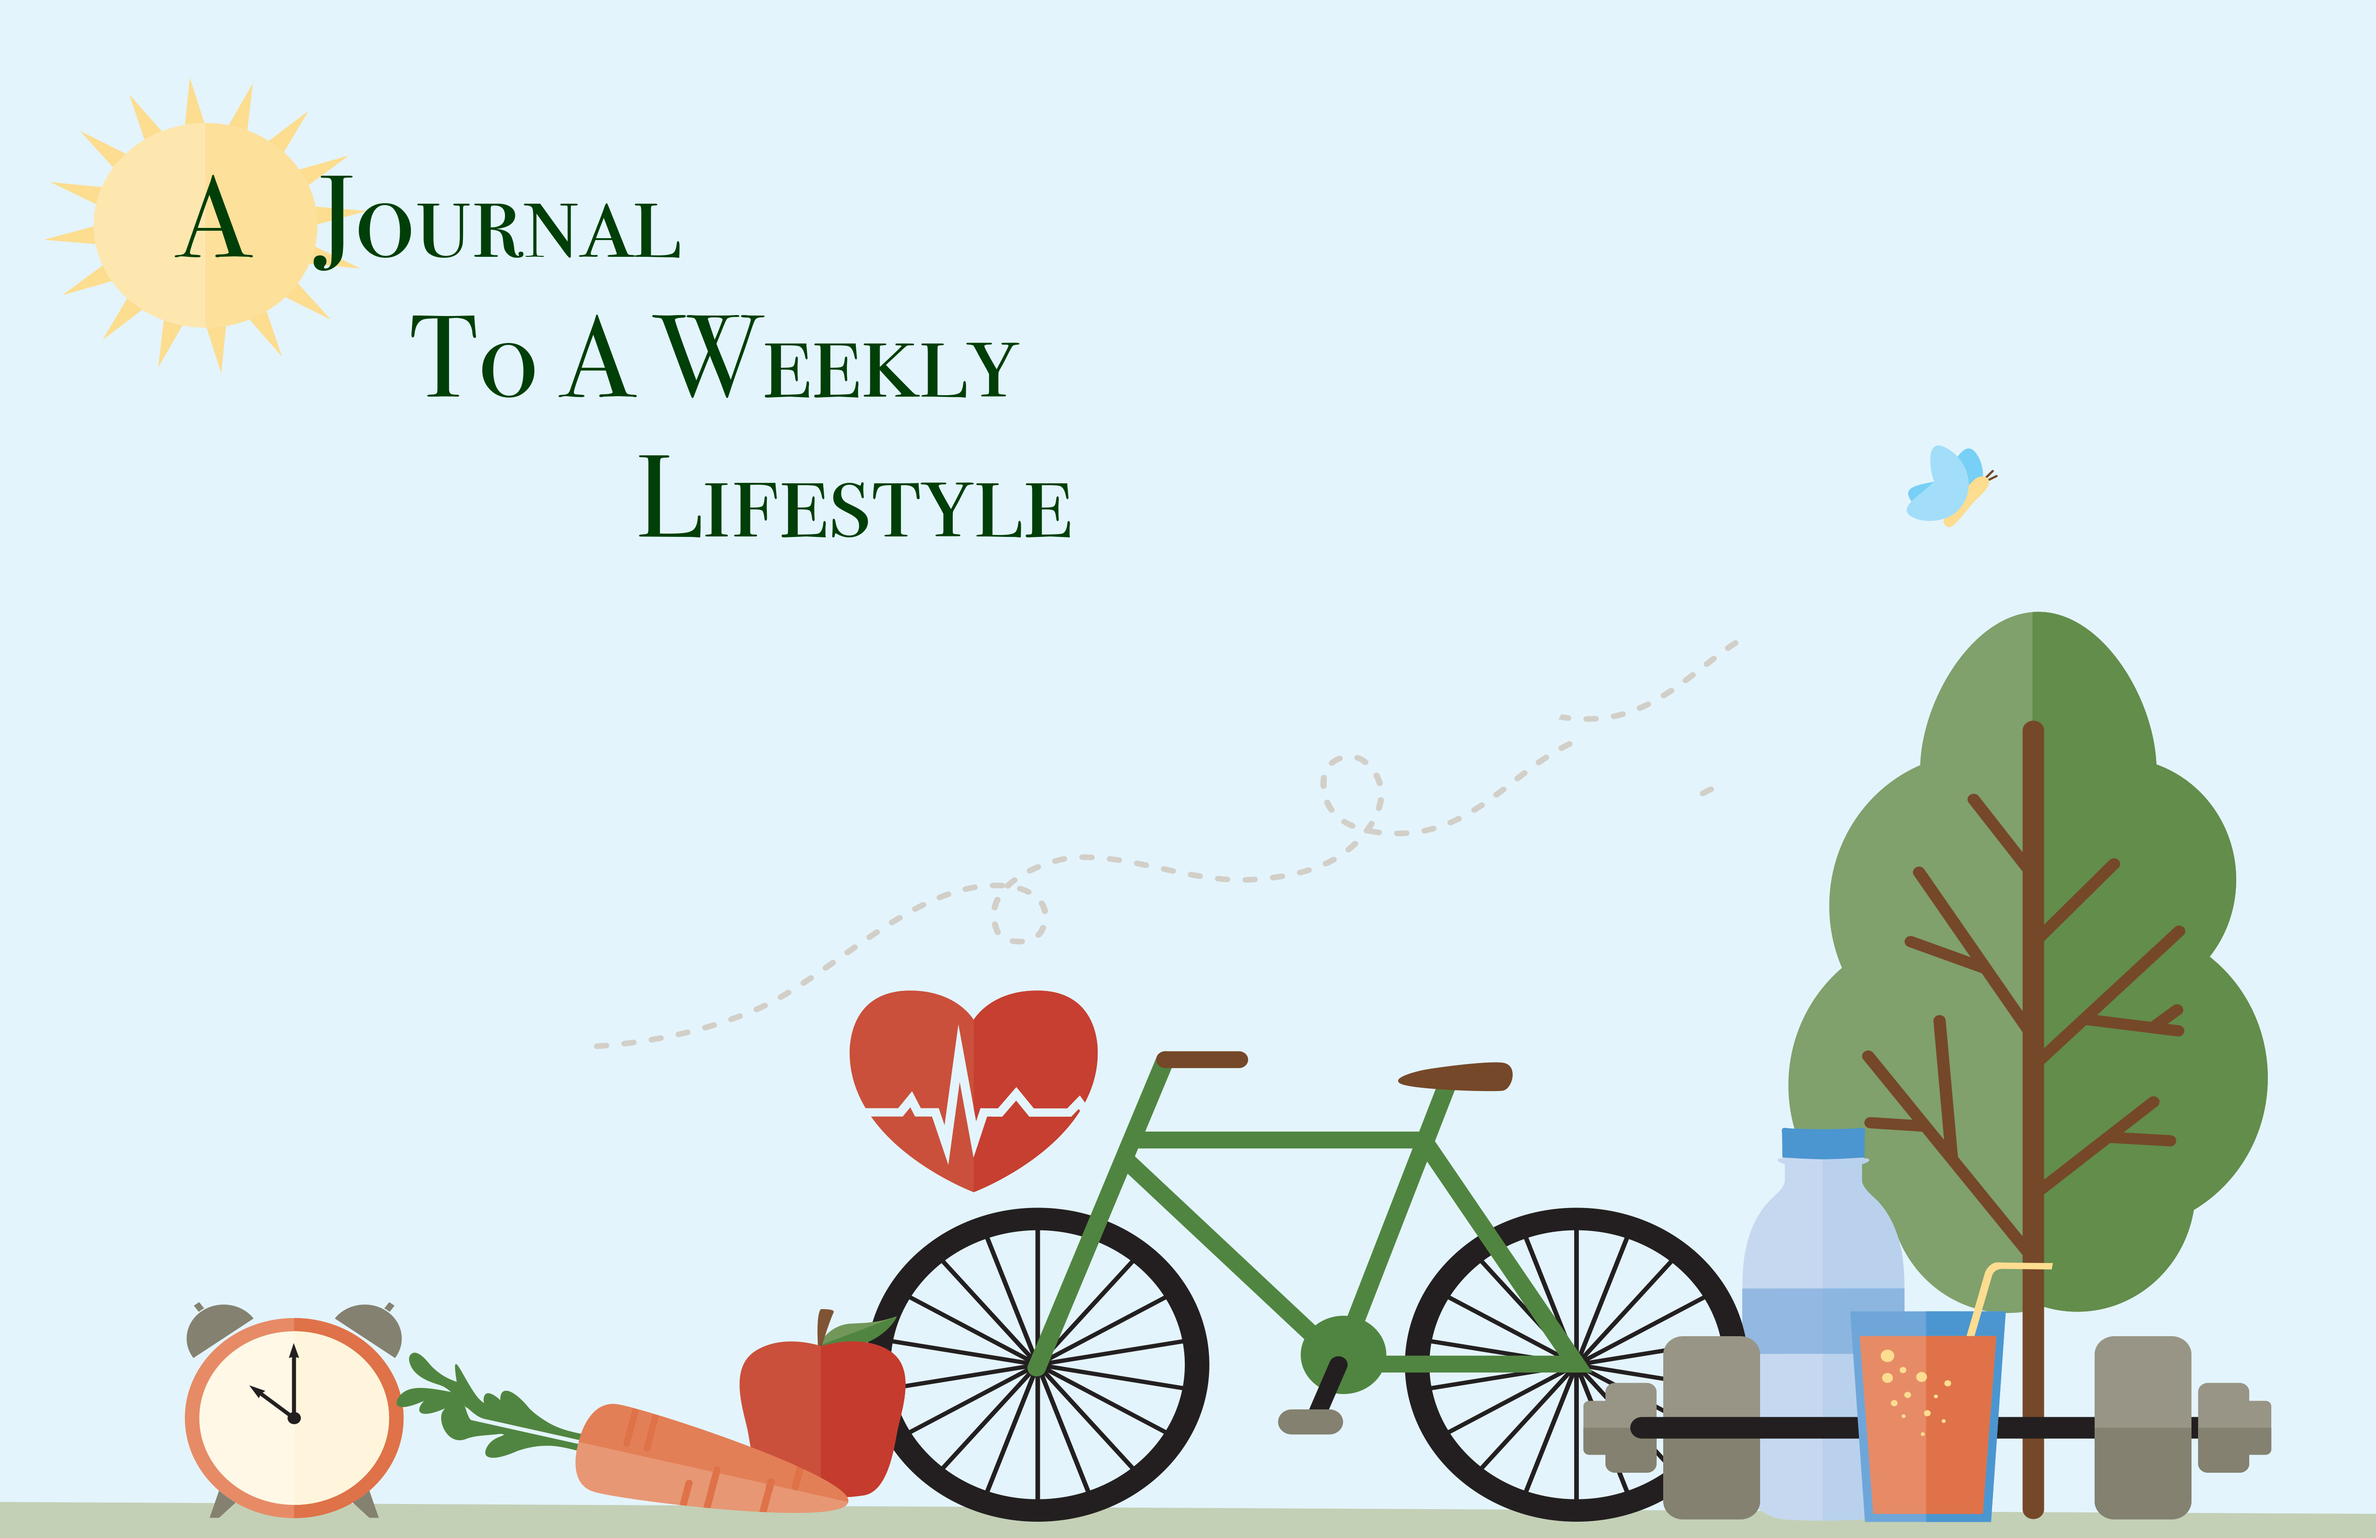
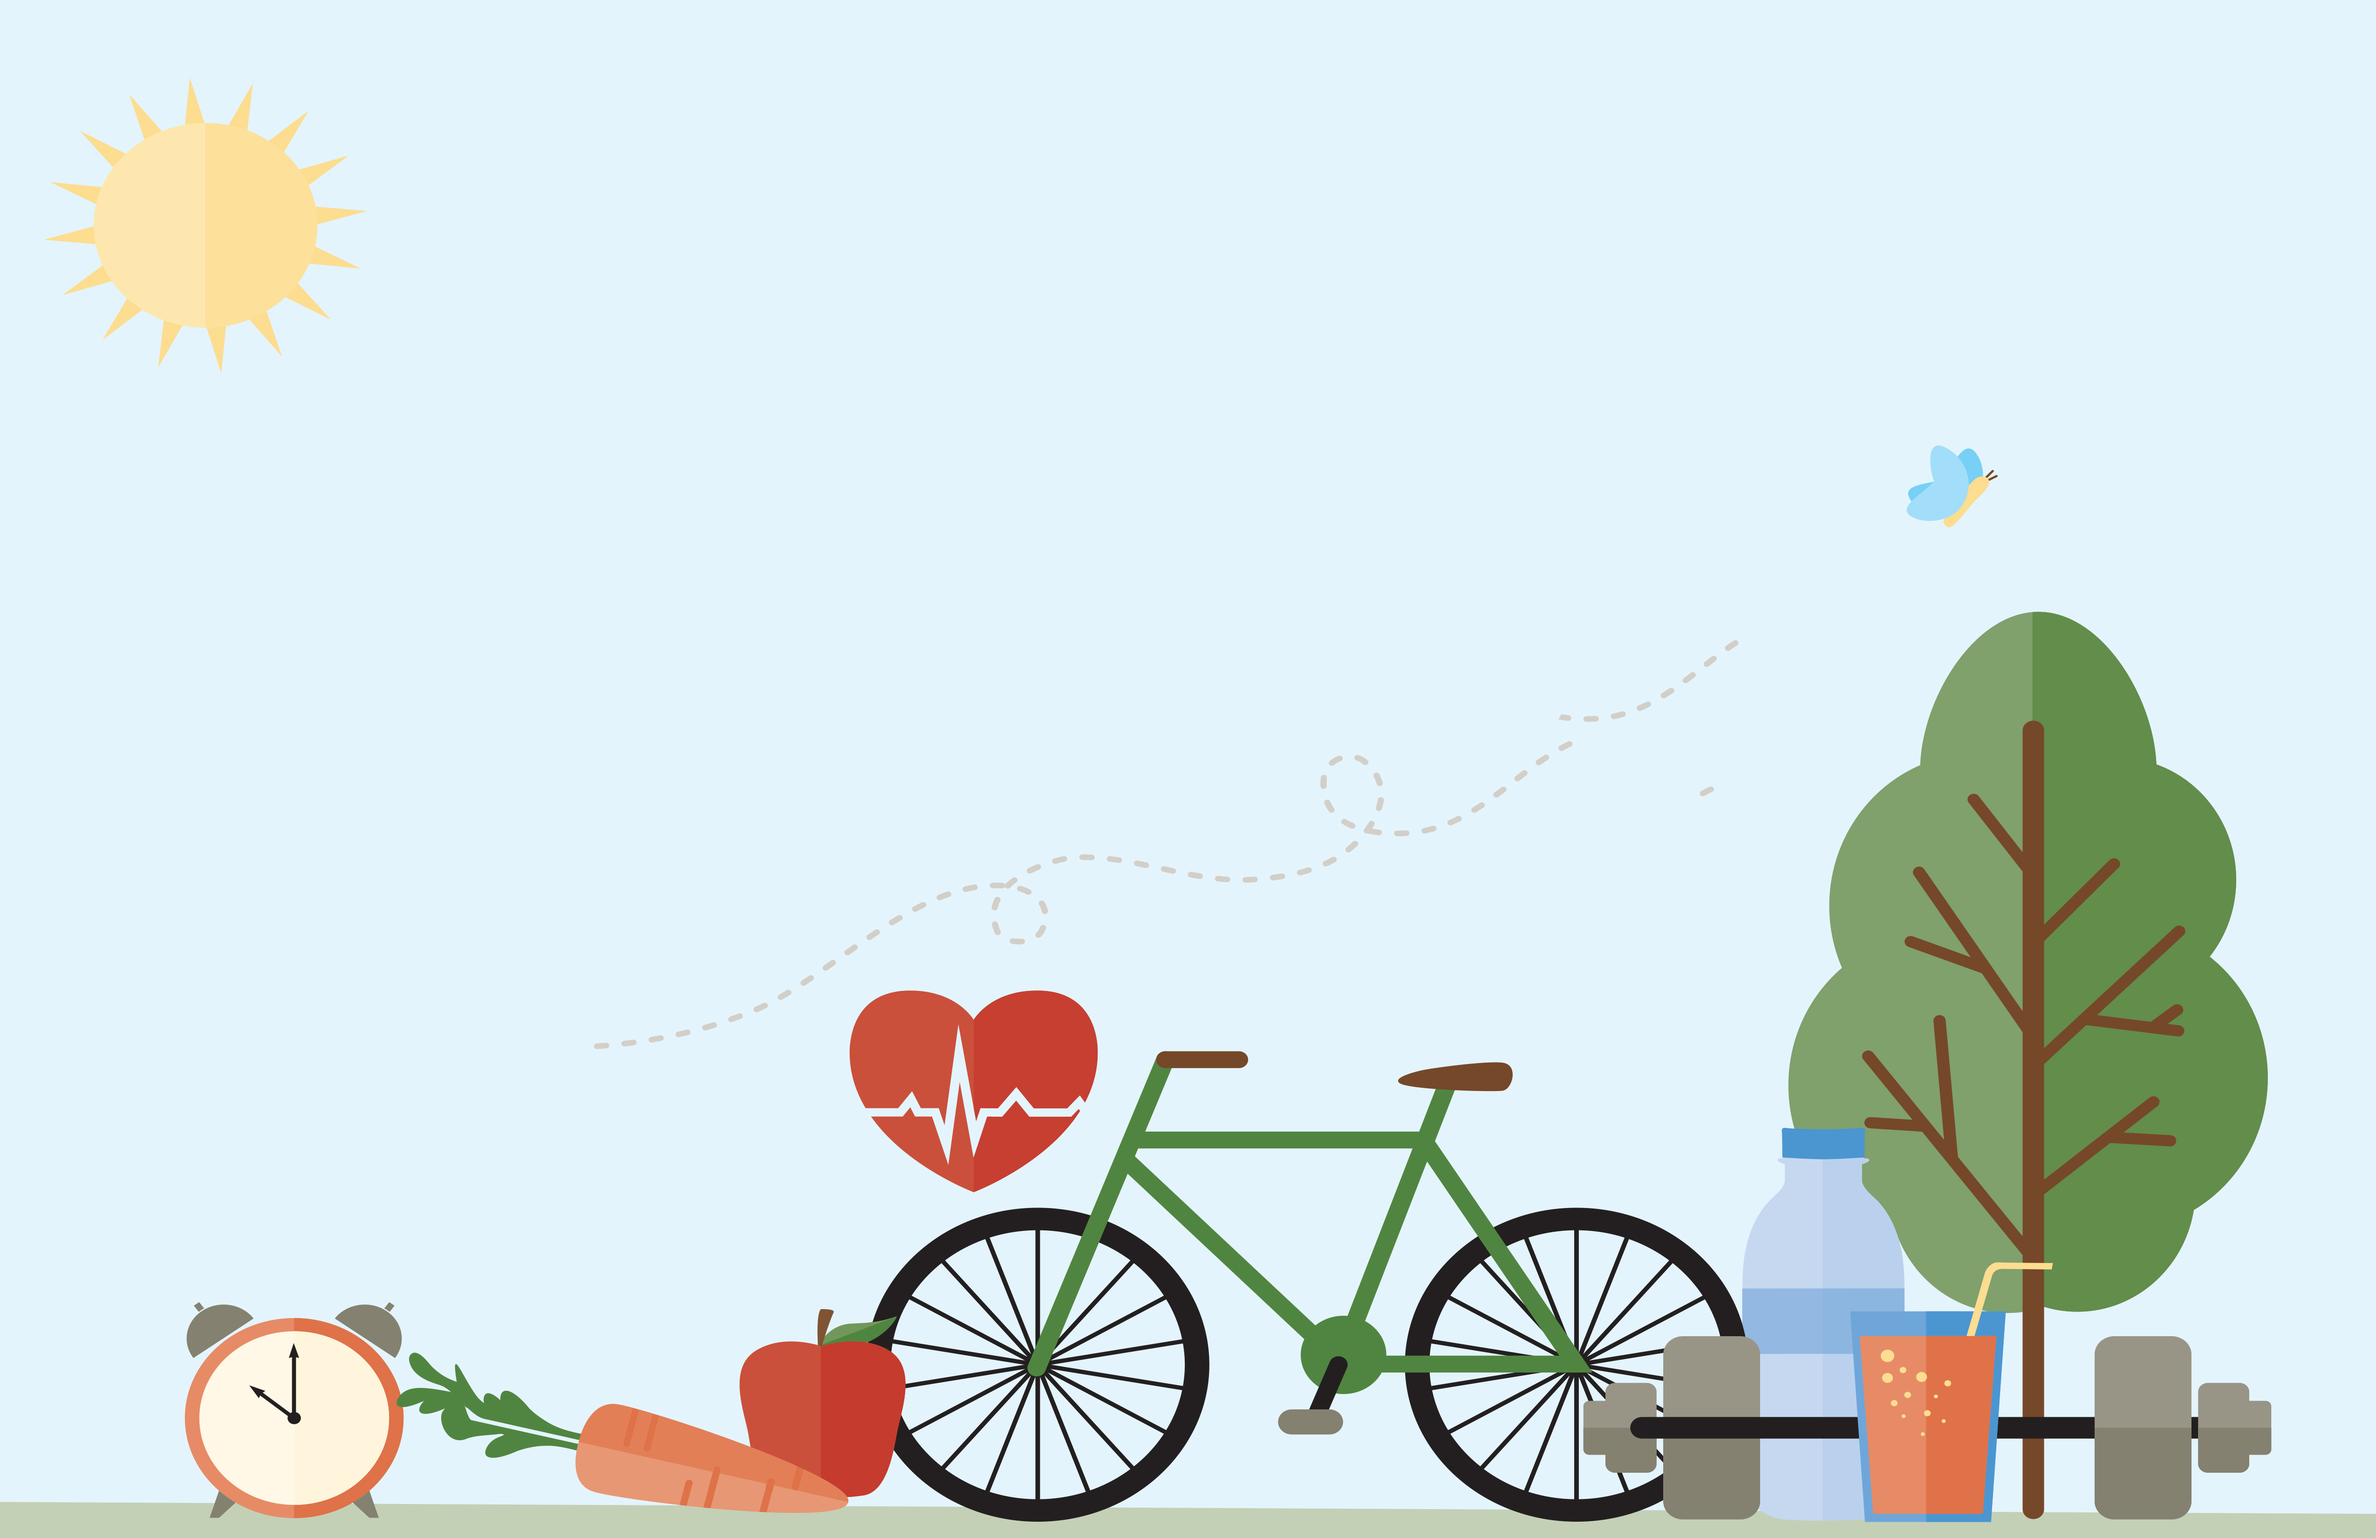
final mainPage

diff --git a/assets/css/style.css b/assets/css/style.css
@@ -59,8 +59,19 @@ a:visited {
 
 #onSignIn{
     margin: 6px;
+    background-color: #008CBA;
+    border-color: #008CBA;
+    color:white;
+    padding-left: 20px;
+    padding-right: 20px;
 }
-
+#onSignOut{
+    background-color: #008CBA;
+    border-color: #008CBA;
+    color:white;
+    padding-left: 20px;
+    padding-right: 20px;
+}
 #imageMainPage{
     display: block;
     margin-left: auto;
@@ -69,14 +80,50 @@ a:visited {
 }
 
 body{
-    background-image: url(../Pictures/mainPage.jpg);
+    height: 100vh;
+    margin-top: 35px;
+    background-position: bottom;
     background-repeat: no-repeat;
-    background-attachment: fixed;
-    -webkit-background-size: cover;
-    -moz-background-size: cover;
-    -o-background-size: cover;
+    background-size: contain;
     background-size: cover;
- 
-    
+    background-color: rgba(155, 182, 250, 0.66);
+    background-image: url(../Pictures/mainPage.jpg);
+   
 
+}
+
+#quote{
+    margin: 34px;
+    margin-left: 100px;
+    margin: 90px;
+    font-family: 'Old Standard TT', serif;
+    color: rgb(56, 162, 72);
+    font-size: 48px;
+    font-style: italic;
+}
+
+#onSignUp{
+
+    box-shadow: 0 8px 16px 0 rgba(0,0,0,0.2), 0 6px 20px 0 rgba(0,0,0,0.19);
+
+    display: inline-block;
+    padding-left: 30px;
+    padding-right: 30px;
+    font-weight: bold;
+    margin-left: 300px;
+    font-size: 18px;
+
+
+}
+
+
+
+
+#enterInfo{
+    margin: 20px;
+    margin-left: 240px;
+
+    font-family: 'Old Standard TT', serif;
+    color: rgb(70, 104, 164);
+    font-size: 18px;
 }

diff --git a/mainPage.html b/mainPage.html
@@ -34,11 +34,11 @@
     </nav>
 
     
-  
+  <h2 id="quote">A Journey to a  Weekly Lifestyle</h2>
+
 
     <button type="button" class="btn btn-outline-info" id="onSignUp" type="submit">Sign Up</button>
-
-    <br><br>
+    <h4 id="enterInfo">Sign Up & get your weekly Goals</h4> 
     <div id="userError"></div>
 
     
@@ -58,7 +58,7 @@
     <!-- Optional JavaScript -->
     <script type="text/javascript" src="assets/javascript/app.js"></script>
          <!--IMAGE-->
-    <img src=".." alt="Mainpic" width="1000" height="900">
+
 
 
 </body>
